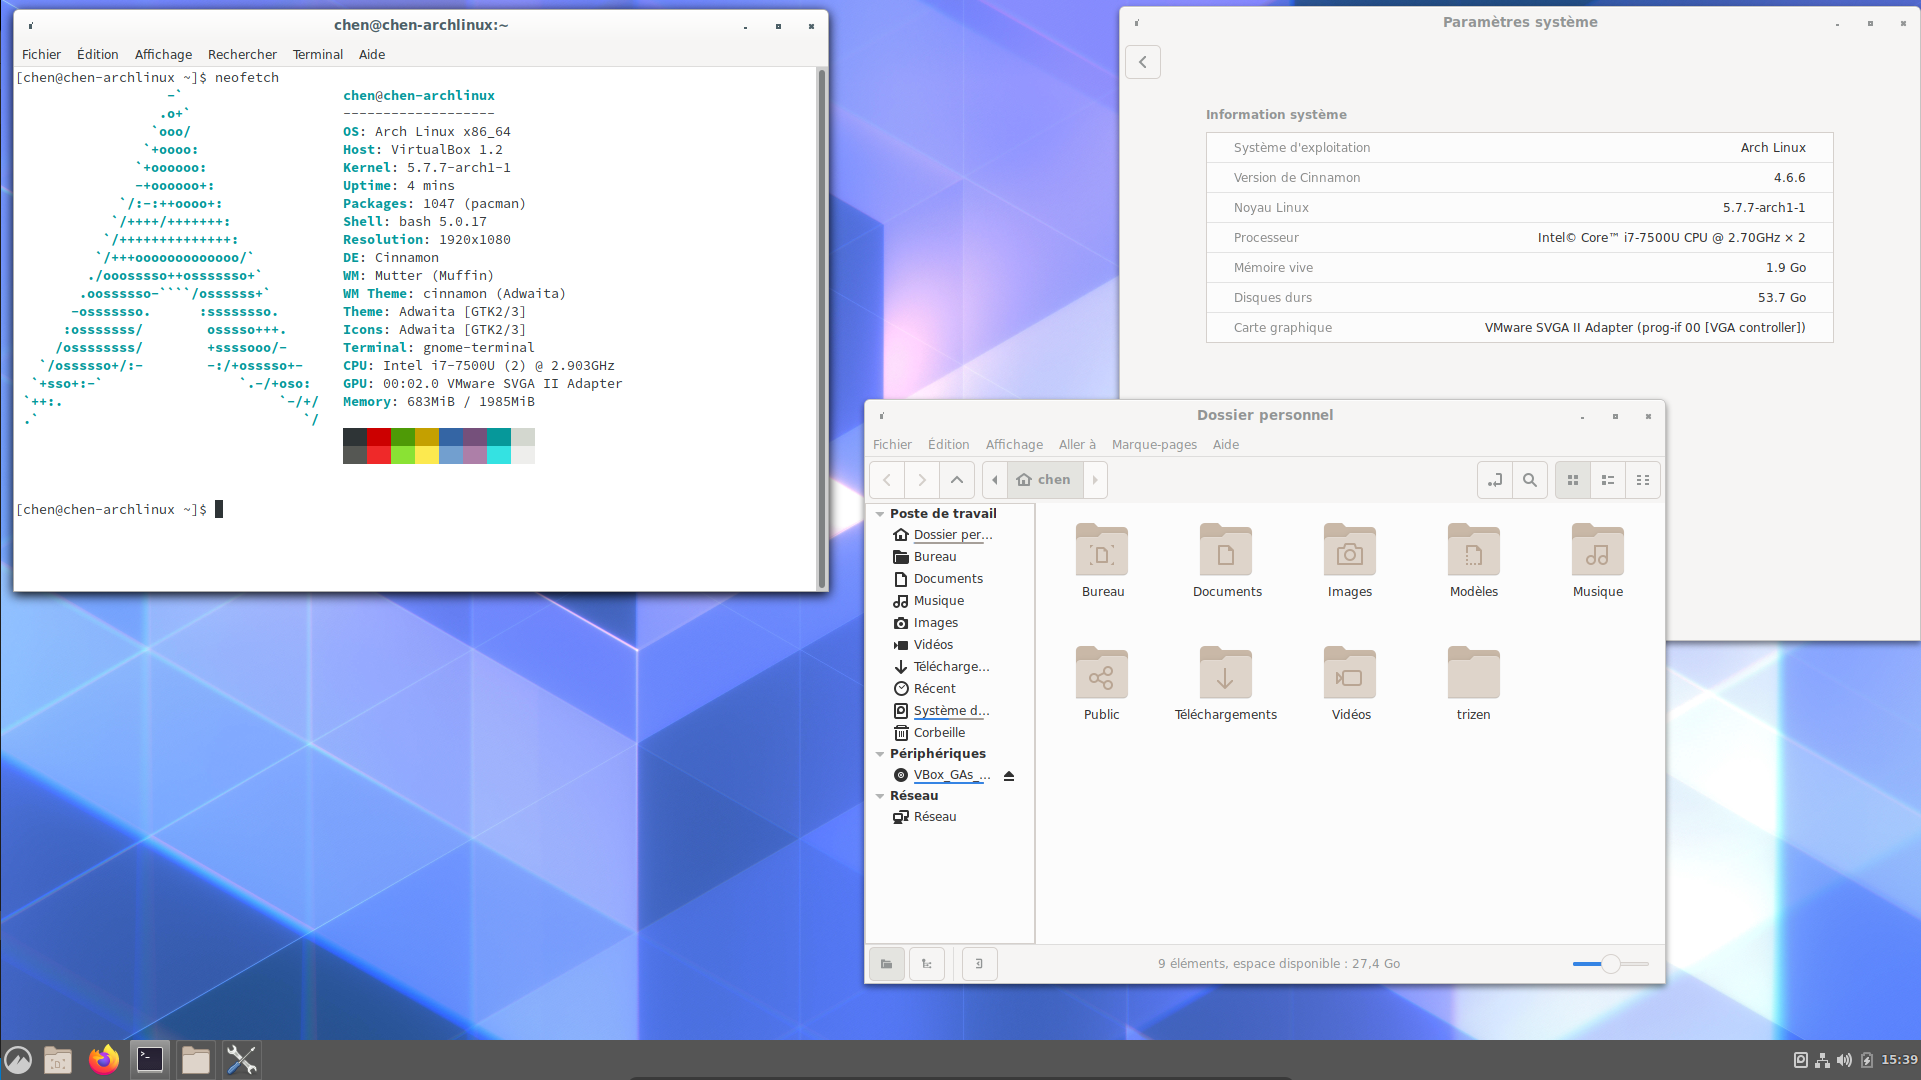
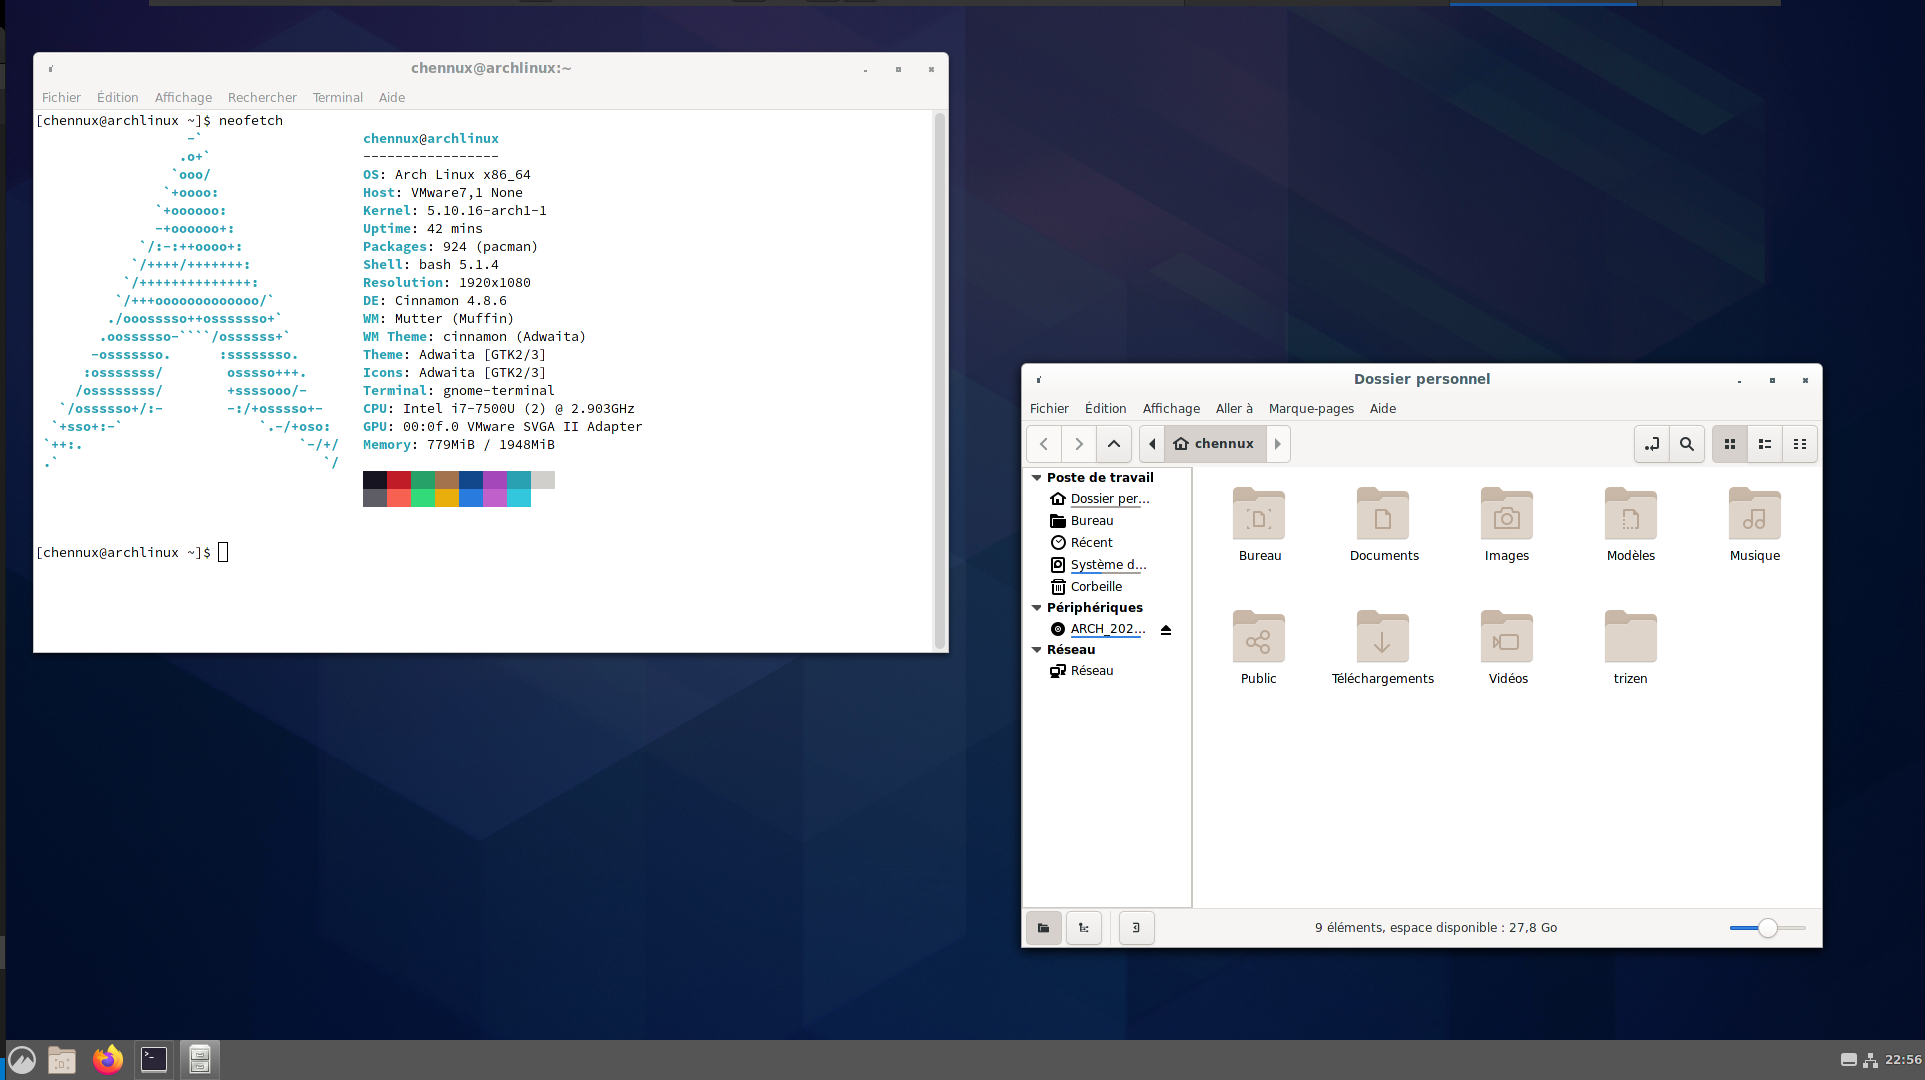
mises à jour pour les environnements cinnamon et LXDE

diff --git a/install.md b/install.md
@@ -9,7 +9,7 @@ Sommaire
       * [II) Commençons l'installation de l’environnement graphique !](#ii-commen%C3%A7ons-linstallation-de-lenvironnement-graphique-)
       * [III) Installons l'environnement de bureau.](#iii-installons-lenvironnement-de-bureau)<br>
             * [a) Installons GNOME 3.38](#a-installons-gnome-338)<br>
-            * [b) Installons KDE Plasma 5.19](#b-installons-kde-plasma-520)<br>
+            * [b) Installons KDE Plasma 5.21](#b-installons-kde-plasma-522)<br>
             * [c) Installons Xfce](#c-installons-xfce)<br>
             * [d) Installons Mate-Desktop](#d-installons-mate-desktop)<br>
             * [e) Installons Cinnamon](#e-installons-cinnamon)<br>
@@ -18,10 +18,10 @@ Sommaire
 Créé par [gh-md-toc](https://github.com/ekalinin/github-markdown-toc)
 
 
-Petit guide d’installation d’Archlinux avec Gnome 3.38.x / Plasma 5.20.x / Xfce / Mate-Desktop / Cinnamon / LXDE / LXQt
+Petit guide d’installation d’Archlinux avec Gnome 3.38.x / Plasma 5.21.x / Xfce / Mate-Desktop / Cinnamon / LXDE / LXQt
 =======================================================================================================================
 
-Dans ce petit guide, je vais détailler l’installation d’Archlinux avec Gnome 3.38 et suivant, Plasma 5.20.x, Xfce,  Mate-Desktop, Cinnamon, LXDE et LXQt. L’installation terminée proposera un environnement suffisamment étoffé pour être utilisable.
+Dans ce petit guide, je vais détailler l’installation d’Archlinux avec Gnome 3.38 et suivant, Plasma 5.21.x, Xfce,  Mate-Desktop, Cinnamon, LXDE et LXQt. L’installation terminée proposera un environnement suffisamment étoffé pour être utilisable.
 
 Pour des raisons pratiques, je n’aborde nullement l’ajout de matériel comme les imprimantes, les scanners, ou encore les webcams. Je vous renvoie aux wikis anglophone <https://wiki.archlinux.org/> et francophone <http://wiki.archlinux.fr/Accueil> pour ce genre de manipulations.
 
@@ -663,7 +663,7 @@ Pour finir une capture d’écran du mode « Gnome Shell ».
 
 *Illustration 13: Gnome Shell 3.38*
 
-#### b) Installons KDE Plasma 5.20
+#### b) Installons KDE Plasma 5.21
 
 
 **Note :** commandes à entrer en tant qu’utilisateur classique. Vous pouvez utiliser un enrobeur de pacman comme trizen ou yay  ou yaypar exemple.
@@ -710,12 +710,12 @@ sudo pacman -S gvfs-{afc,goa,google,gphoto2,mtp,nfs,smb}
 Pour installer Xfce, il faut entrer :
 
 ```
-sudo pacman -S xfce4 xfce4-goodies gvfs quodlibet python-pyinotify lightdm-gtk-greeter xarchiver claws-mail galculator evince gucharmap ffmpegthumbnailer pavucontrol pulseaudio-{alsa,bluetooth} libcanberra-{pulse,gstreamer} network-manager-applet system-config-printer **→ (pour installer le support des imprimantes)**
+sudo pacman -S xfce4 xfce4-goodies gvfs quodlibet python-pyinotify lightdm-gtk-greeter xarchiver claws-mail galculator evince ffmpegthumbnailer pavucontrol pulseaudio-{alsa,bluetooth} libcanberra-{pulse,gstreamer} network-manager-applet system-config-printer **→ (pour installer le support des imprimantes)**
 ```
 
 Quodlibet ? Pour l’audio. Pour les périphériques amovibles, gvfs est obligatoire. Claws-mail ou Mozilla Thunderbird (avec le paquet thunderbird-i18n-fr) pour le courrier. Lightdm étant pris, car plus rapide à installer. Le paquet python2-pyinotify est nécessaire pour activer le greffon de mise à jour automatique de la musicothèque sous Quodlibet. Xfce intégrant Parole, VLC n'est plus nécessaire.
 
-Evince ? Pour les fichiers en pdf. On peut aussi remplacer xarchiver par file-roller. Quant à ffmpegthumbnailer, c’est utile si vous désirez avoir un aperçu des vidéos stockées sur votre ordinateur. Enfin, gucharmap sert à disposer d'une table de caractères. Xfce intégrant désormais un économiseur d'écran, xscreensaver n'est plus nécessaire.
+Evince ? Pour les fichiers en pdf. On peut aussi remplacer xarchiver par file-roller. Quant à ffmpegthumbnailer, c’est utile si vous désirez avoir un aperçu des vidéos stockées sur votre ordinateur. Xfce intégrant désormais un économiseur d'écran, xscreensaver n'est plus nécessaire.
 
 Si vous voulez personnaliser votre lightdm :
 
@@ -753,7 +753,7 @@ L’installation ressemble à celle de Xfce, donc pour les explications des paqu
 
 
 ```
-sudo pacman -S mate mate-extra lightdm-gtk-greeter gnome-icon-theme gucharmap vlc quodlibet python-pyinotify accountsservice claws-mail ffmpegthumbnailer pulseaudio-{alsa,bluetooth} blueman libcanberra-{pulse,gstreamer} network-manager-applet system-config-printer **→ (pour installer le support des imprimantes)**
+sudo pacman -S mate mate-extra lightdm-gtk-greeter gnome-icon-theme vlc quodlibet python-pyinotify accountsservice claws-mail ffmpegthumbnailer pulseaudio-{alsa,bluetooth} blueman libcanberra-{pulse,gstreamer} network-manager-applet system-config-printer **→ (pour installer le support des imprimantes)**
 ```
 
 Si vous voulez personnaliser votre lightdm :
@@ -781,13 +781,21 @@ sudo systemctl enable lightdm
 
 #### e) Installons Cinnamon
 
+**Note :** commandes à entrer en tant qu’utilisateur classique. Vous pouvez utiliser un enrobeur de pacman comme trizen ou yay par exemple.
+
+**Note 2 :**  Si vous avez besoin de gérer des périphériques utilisant MTP (tablettes sous android par exemple), il vous faut rajouter les deux paquets gvfs-mtp et mtpfs.
+Si vous voulez la totalité des greffons gvfs (merci à SuperMarioS pour la ligne de commande) :
+```
+sudo pacman -S gvfs-{afc,goa,google,gphoto2,mtp,nfs,smb}
+```
+
 
 L’installation est assez courte. 
 
-Les meta-paquets gnome et gnome-extra ne sont pas indispensables, mais ils contiennent une partie non négligeable de la logithèque. Il faut juste penser à enlever nautilus, gnome-shell, gnome-session, gnome-control-center, gnome-settings-daemon, gnome-tweaks, gdm et mutter pour éviter les doublons avec les composants de Cinnamon.
+Le meta-paquet gnome-extra n'est pas indispensable, mais il contient une partie non négligeable de la logithèque.
 
 ```
-sudo pacman -S cinnamon cinnamon-translations gnome gnome-extra gnome-software-packagekit-plugin lightdm-gtk-greeter shotwell rhythmbox system-config-printer → (pour installer le support des imprimantes)
+sudo pacman -S cinnamon cinnamon-translations gnome-{terminal,screenshot,calculator,extra} eog evince file-roller gedit lightdm-gtk-greeter shotwell rhythmbox system-config-printer → (pour installer le support des imprimantes)
 ```
 
 Si vous voulez personnaliser votre lightdm :
@@ -810,9 +818,9 @@ sudo systemctl enable lightdm
 
 Pour lancer tranquillement Cinnamon dans VirtualBox, il faut dans l’écran LightDM choisir l’option "Cinnamon (Software Rendering)" qui active le rendu logiciel. Sinon, ça plantera tout le temps.
 
-![Illustration 17: Cinnamon 4.6.6](pictures/017.png)
+![Illustration 17: Cinnamon 4.8.6](pictures/017.png)
 
-*Illustration 17: Cinnamon 4.6.6*
+*Illustration 17: Cinnamon 4.8.6*
 
 #### f) Installons LXDE ou LXQt
 
@@ -828,10 +836,10 @@ J’ai regroupé les deux environnements légers qui sont tout de même assez pr
 
 Comme pour l’installation de Xfce ou encore de Mate Desktop, j’ai pris quelques logiciels types. Libre à vous de remplacer Claws-mail par Mozilla Thunderbird par exemple.
 
-Commençons par LXDE. Son installation est assez simple. Xterm est installé, car il est indispensable pour faire fonctionner l’appliquette de gestion du niveau du son. Htop
+Commençons par LXDE. Son installation est assez simple. Xterm est installé, car il est indispensable pour faire fonctionner l’appliquette de gestion du niveau du son.
 
 ```
-sudo pacman -S lxde-gtk3 xarchiver mousepad claws-mail xscreensaver vlc evince galculator flameshot gucharmap xterm system-config-printer → (pour installer le support des imprimantes)
+sudo pacman -S lxde xarchiver mousepad claws-mail xscreensaver vlc evince galculator gnome-screenshot xterm network-manager-applet system-config-printer → (pour installer le support des imprimantes)
 ```
 
 Pour lancer LXDE, il faut entrer dans un premier temps :
@@ -863,11 +871,9 @@ Si tout se passe bien, on peut utiliser :
 sudo systemctl enable sddm
 ```
 
-**Note 3** : L'apparence par défaut de ces deux environnements n'est pas très agréable, pensez à le personnaliser ! (Je l'ai fait pour les captures ci-dessous. 😉)
+![Illustration 18: LXDE dans VMWare](pictures/018.png)
 
-![Illustration 18: LXDE dans VirtualBox, avec le thème Adwaita](pictures/018.png)
-
-*Illustration 18: LXDE dans VirtualBox, avec le thème Adwaita*
+*Illustration 18: LXDE dans VMWare*
 
 ![Illustration 19: LXQt 0.15 dans VMWare, avec le thème Breeze](pictures/019.png)
 
